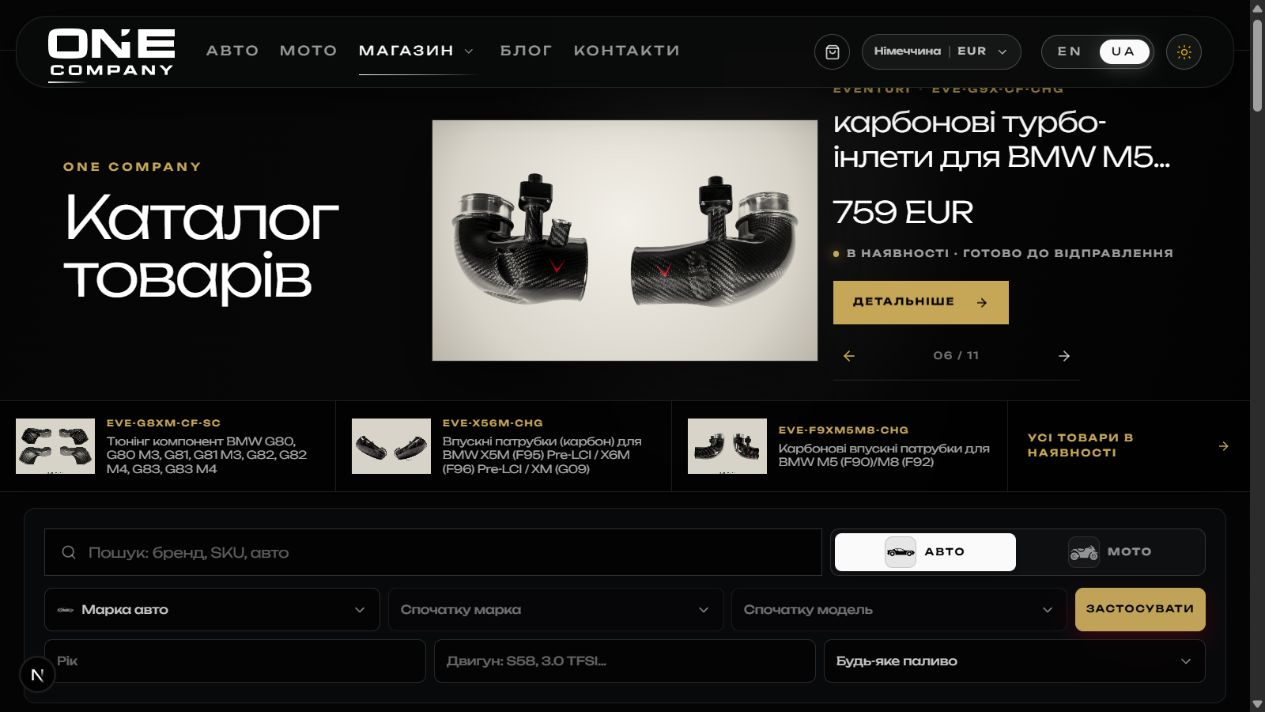
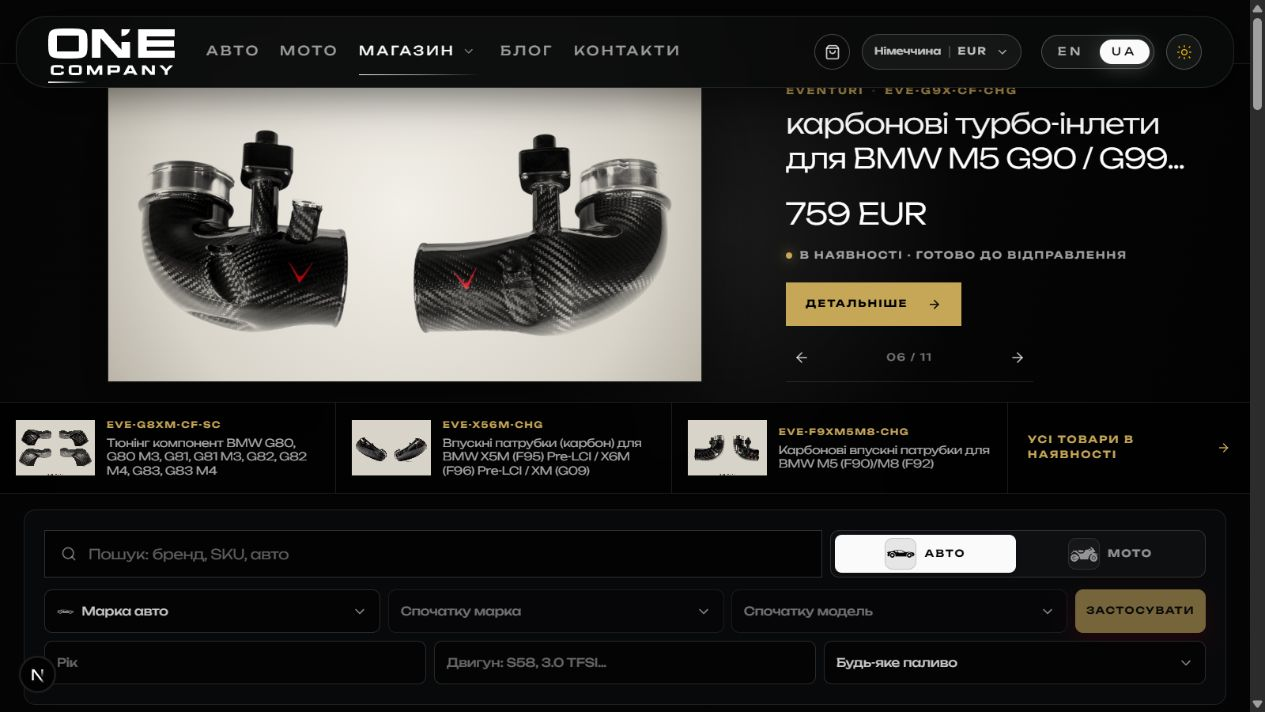
refactor(catalog): simplify inventory carousel

diff --git a/src/app/[locale]/shop/stock/page.tsx b/src/app/[locale]/shop/stock/page.tsx
@@ -2680,17 +2680,11 @@ function StockPageContent() {
           onMouseLeave={() => setHeroPaused(false)}
           onFocusCapture={() => setHeroPaused(true)}
           onBlurCapture={() => setHeroPaused(false)}
-          className="relative z-30 isolate mb-0 min-h-[390px] overflow-hidden rounded-[18px] border border-white/10 bg-[#050505] text-white shadow-[0_18px_55px_rgba(0,0,0,0.18)] lg:-mx-6 lg:min-h-[430px] lg:rounded-none lg:border-x-0 2xl:-mx-8"
+          className="relative z-30 isolate mb-0 min-h-[590px] overflow-hidden rounded-[18px] border border-white/10 bg-[#050505] text-white shadow-[0_18px_55px_rgba(0,0,0,0.18)] lg:-mx-6 lg:min-h-[430px] lg:rounded-none lg:border-x-0 2xl:-mx-8"
         >
+          <h1 className="sr-only">{isUa ? "Каталог товарів" : "Product catalog"}</h1>
           <div aria-hidden="true" className="pointer-events-none absolute inset-0 bg-[radial-gradient(circle_at_58%_38%,rgba(255,255,255,0.08),transparent_32%),linear-gradient(105deg,#050505_0%,#080808_55%,#020202_100%)]" />
-          <div className="relative z-10 grid min-h-[390px] grid-cols-1 px-5 pb-[110px] pt-7 sm:px-8 lg:min-h-[430px] lg:grid-cols-[0.78fr_1.12fr_0.92fr] lg:items-center lg:gap-5 lg:px-12 lg:pb-[112px] lg:pt-8 xl:px-16">
-            <div className="relative z-20 self-start lg:self-center">
-              <p className="text-[10px] font-semibold uppercase tracking-[0.3em] text-[#c6a657] sm:text-[11px]">ONE COMPANY</p>
-              <h1 className="mt-3 max-w-[480px] text-[34px] font-extralight leading-[0.98] tracking-[-0.045em] sm:text-[46px] lg:text-[52px] xl:text-[60px]">
-                {isUa ? "Каталог товарів" : "Product catalog"}
-              </h1>
-            </div>
-
+          <div className="relative z-10 grid min-h-[590px] grid-cols-1 content-start gap-5 px-5 pb-[110px] pt-5 sm:px-8 lg:min-h-[430px] lg:grid-cols-[minmax(0,1.45fr)_minmax(300px,0.85fr)] lg:items-center lg:gap-10 lg:px-12 lg:pb-[112px] lg:pt-5 xl:px-16">
             {activeHeroProduct ? (
               <>
                 <motion.div
@@ -2698,10 +2692,10 @@ function StockPageContent() {
                   initial={shouldReduceMotion ? false : { opacity: 0, x: 24, scale: 0.97 }}
                   animate={{ opacity: 1, x: 0, scale: 1 }}
                   transition={{ duration: 0.55, ease: [0.22, 1, 0.36, 1] }}
-                  className="pointer-events-none absolute inset-x-[30%] bottom-[94px] top-8 hidden items-center justify-center lg:flex"
+                  className="pointer-events-none relative flex h-[250px] min-w-0 items-center justify-center sm:h-[290px] lg:h-[300px]"
                 >
-                  <span className="relative block aspect-[16/10] w-full max-w-[390px] overflow-hidden bg-[radial-gradient(circle_at_50%_42%,#f3f0e9_0%,#d8d4ca_72%,#bbb5a9_100%)] shadow-[0_28px_60px_rgba(0,0,0,0.52)] ring-1 ring-white/10">
-                    <Image src={resolveShopWarehouseHeroImage(activeHeroProduct.partNumber, activeHeroProduct.thumbnail)!} alt="" fill unoptimized priority={heroProductIndex === 0} sizes="390px" className="object-cover object-center mix-blend-multiply contrast-[1.04]" />
+                  <span className="relative block aspect-[16/10] h-full max-h-[300px] w-full max-w-[600px] overflow-hidden bg-[radial-gradient(circle_at_50%_42%,#f3f0e9_0%,#d8d4ca_72%,#bbb5a9_100%)] shadow-[0_28px_60px_rgba(0,0,0,0.52)] ring-1 ring-white/10">
+                    <Image src={resolveShopWarehouseHeroImage(activeHeroProduct.partNumber, activeHeroProduct.thumbnail)!} alt="" fill unoptimized priority={heroProductIndex === 0} sizes="(min-width: 1024px) 600px, 92vw" className="object-cover object-center mix-blend-multiply contrast-[1.04]" />
                   </span>
                 </motion.div>
                 <motion.div
@@ -2709,7 +2703,7 @@ function StockPageContent() {
                   initial={shouldReduceMotion ? false : { opacity: 0, y: 12 }}
                   animate={{ opacity: 1, y: 0 }}
                   transition={{ duration: 0.42 }}
-                  className="relative z-20 mt-6 self-end lg:col-start-3 lg:mt-0 lg:self-center"
+                  className="relative z-20 min-w-0 self-start lg:col-start-2 lg:self-center"
                 >
                   <p className="text-[10px] font-semibold uppercase tracking-[0.2em] text-[#c6a657]">{activeHeroProduct.brand}<span className="mx-2 text-white/20">·</span>{activeHeroProduct.partNumber}</p>
                   <h2 className="mt-2 line-clamp-2 max-w-[440px] text-xl font-light leading-tight tracking-[-0.025em] sm:text-2xl lg:text-[28px]">{getCatalogHeroProductTitle(activeHeroProduct)}</h2>

diff --git a/design-qa.md b/design-qa.md
@@ -29,6 +29,7 @@ No actionable P0, P1, or P2 differences remain.
 4. Follow-up comparison found a P2 consistency issue: source images with different aspect ratios produced visibly different subject sizes and white square thumbnails. Fixed by standardizing the main media stage at 16:10 with a 390 px maximum width and `object-cover`, and every rail thumbnail at 80 × 56 px with the same crop behavior. Akrapovič, Brabus, Öhlins, and the confirmed Eventuri warehouse states were switched manually and checked after the fix. Post-fix evidence: `implementation-hero-final.png` and the lower half of `design-qa-comparison.png`.
 5. Inventory validation found a P0 content-trust issue: the premium adapter hardcoded every product as in stock. Fixed with one exact, normalized eleven-SKU Eventuri inventory source shared by both catalog readers. Duplicate catalog records are deduplicated by SKU in the hero. The rendered counter now shows 11 items, and Brabus, Öhlins, ADRO, Urban Automotive, and unrelated Eventuri SKUs are excluded.
 6. Eventuri-only review found a P2 art-direction issue: white supplier images looked like unrelated rectangles on the black hero and the product name repeated the brand. Fixed with a consistent warm-neutral media stage, multiply blending for white-background catalog photography, SKU-forward eyebrow copy, and brand-stripped product titles. `EVE-G9X-CF-CHG` now uses a verified higher-resolution photograph of the exact two-part G90/G99 M5 inlet set.
+7. User review removed the visible catalog heading from the carousel. The layout was rebalanced from three columns to a focused two-column product composition: a substantially larger standardized media stage and a quieter purchase-information column. The catalog H1 remains screen-reader-only, so the visual simplification does not remove the page's semantic heading. The existing bottom rail, stock CTA, navigation, colors, and interaction model remain intact.
 
 ## Primary interactions tested
 
